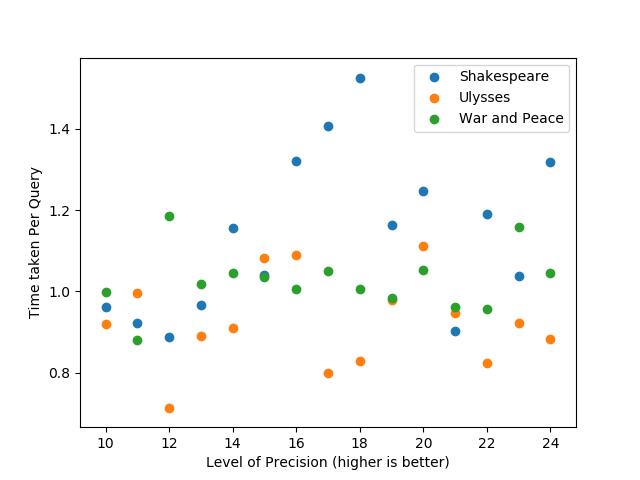
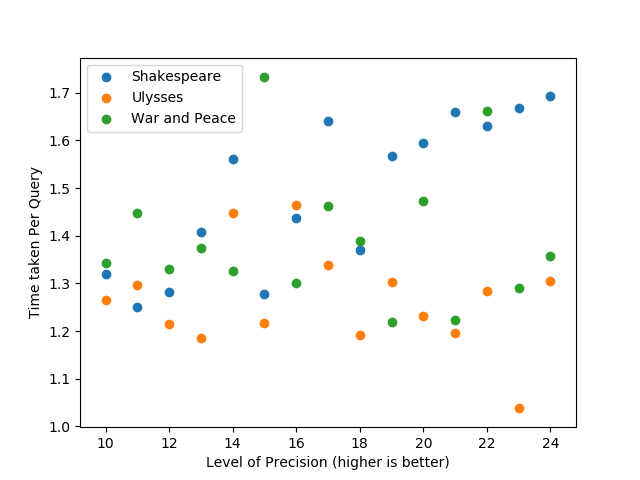
changed timing to include connection to the server

diff --git a/bigquery/bigquery-queries-detailed.py b/bigquery/bigquery-queries-detailed.py
@@ -9,145 +9,162 @@ from tqdm import trange
 verbose = False
 os.environ["GOOGLE_APPLICATION_CREDENTIALS"] = "/Users/Surya/Surya/School/CS166/Project/key_files/surya-bigquery-project-editable-key.json"
 
-client = bigquery.Client()
-
-print('############################## WAR AND PEACE #################################')
-# Exact Count.
-
+#Housekeeping Data Structures
 pct_diff_war_and_peace = []
 hll_estimate_war_and_peace = []
 time_war_and_peace = []
-
-QUERY = (
-    'SELECT COUNT(DISTINCT string_field_0) as exact_count  \
-        FROM cs166.war_and_peace \
-        WHERE RAND() < 2  ')
-
-start = time.perf_counter()
-query_job = client.query(QUERY)  # API request
-rows = query_job.result()  # Waits for query to finish
-time_taken = time.perf_counter() - start
-print("Time taken to compute exact count for War and Peace", time_taken)
-
-for row in rows:
-    print("exact count", row.get('exact_count'))
-    exact_count = row.get('exact_count')
-
-# Approximate Count.
-
-for precision in trange(10, 25):
-    i = precision
-
-    QUERY = (
-        'SELECT HLL_COUNT.EXTRACT(HLL_COUNT.INIT(string_field_0, %d))\
-            as approx_count FROM cs166.war_and_peace WHERE RAND() < 2  ' % i) 
-    
-    start = time.perf_counter()
-    query_job = client.query(QUERY)  # API request
-    rows = query_job.result()  # Waits for query to finish
-    time_taken = time.perf_counter() - start
-
-    for row in rows:
-        
-        pct_diff = round((((row.get('approx_count')) - exact_count) / exact_count) * 100, 2)
-        pct_diff_war_and_peace.append(pct_diff)
-        time_war_and_peace.append(time_taken)
-        hll_estimate_war_and_peace.append(row.get('approx_count'))
-        if verbose:
-            print("approx count with precision level, %d" % i, row.get('approx_count'))
-            print("%% difference with precision level, %d" % i, pct_diff)
-            print("Time taken for this query", time_taken)
-        
-        
-
-print('############################## SHAKESPEARE #################################')
 
 pct_diff_shakespeare = []
 hll_estimate_shakespeare = []
 time_shakespeare = []
 
+
+pct_diff_ulysses = []
+hll_estimate_ulysses = []
+time_ulysses = []
+
+
+EXACT_QUERY_TEMPLATE = 'SELECT COUNT(DISTINCT string_field_0) as exact_count  \
+        FROM cs166.%s \
+        WHERE RAND() < 2 '
+
+print('############################## WAR AND PEACE #################################')
+
 # Exact Count.
-QUERY = (
-    'SELECT COUNT(DISTINCT string_field_0) as exact_count  \
-        FROM cs166.shakespeare WHERE RAND() < 2  ')
+
 start = time.perf_counter()
+client = bigquery.Client()
+QUERY = (EXACT_QUERY_TEMPLATE % 'war_and_peace')
 query_job = client.query(QUERY)  # API request
 rows = query_job.result()  # Waits for query to finish
-time_taken = time.perf_counter() - start
-print("Time taken to compute exact count for Shakespeare", time_taken)
 
 for row in rows:
     print("exact count", row.get('exact_count'))
     exact_count = row.get('exact_count')
 
+time_taken = time.perf_counter() - start
+print("Time taken to compute exact count for War and Peace", time_taken)
+
+
 # Approximate Count.
 
 for precision in trange(10, 25):
+    start = time.perf_counter()
+    i = precision
+    QUERY = (
+        'SELECT HLL_COUNT.EXTRACT(HLL_COUNT.INIT(string_field_0, %d))\
+            as approx_count FROM cs166.war_and_peace WHERE RAND() < 2  ' % i) 
+    client = bigquery.Client()
+    query_job = client.query(QUERY)  # API request
+    rows = query_job.result()  # Waits for query to finish
+
+    for row in rows:
+        
+        pct_diff = round((((row.get('approx_count')) - exact_count) / exact_count) * 100, 2)
+        pct_diff_war_and_peace.append(pct_diff)        
+        hll_estimate_war_and_peace.append(row.get('approx_count'))        
+        if verbose:
+            print("approx count with precision level, %d" % i, row.get('approx_count'))
+            print("%% difference with precision level, %d" % i, pct_diff)
+        
+        time_taken = time.perf_counter() - start
+        time_war_and_peace.append(time_taken)
+        
+        if verbose:
+            print("Time taken for this query", time_taken)
+        
+        
+print('############################## SHAKESPEARE #################################')
+
+
+# Exact Count.
+start = time.perf_counter()
+client = bigquery.Client()
+QUERY = (EXACT_QUERY_TEMPLATE % 'shakespeare')        
+query_job = client.query(QUERY)  # API request
+rows = query_job.result()  # Waits for query to finish
+
+for row in rows:
+    print("exact count", row.get('exact_count'))
+    exact_count = row.get('exact_count')
+
+time_taken = time.perf_counter() - start
+print("Time taken to compute exact count for Shakespeare", time_taken)
+
+# Approximate Count.
+
+for precision in trange(10, 25):
+    
+    start = time.perf_counter()
+
     i = precision
     
     QUERY = (
         'SELECT HLL_COUNT.EXTRACT(HLL_COUNT.INIT(string_field_0, %d))\
             as approx_count FROM cs166.shakespeare WHERE RAND() < 2  ' % i) 
     
-    start = time.perf_counter()
+    client = bigquery.Client()
     query_job = client.query(QUERY)  # API request
     rows = query_job.result()  # Waits for query to finish
-    time_taken = time.perf_counter() - start
-
+    
     for row in rows:
         
         pct_diff = round(((row.get('approx_count') - exact_count) / exact_count) * 100, 2)
-        pct_diff_shakespeare.append(pct_diff)        
-        time_shakespeare.append(time_taken)
+        pct_diff_shakespeare.append(pct_diff)                
         hll_estimate_shakespeare.append(row.get('approx_count'))      
+
         if verbose:  
             print("approx count with precision level, %d" % i, row.get('approx_count'))
             print("%% difference with precision level, %d" % i, pct_diff)
+
+        time_taken = time.perf_counter() - start
+        time_shakespeare.append(time_taken)
+        if verbose:
             print("Time taken for this query", time_taken)    
 
 print('############################## ULYSSES #################################')
 
-pct_diff_ulysses = []
-hll_estimate_ulysses = []
-time_ulysses = []
-
 # Exact Count.
-QUERY = (
-    'SELECT COUNT(DISTINCT string_field_0) as exact_count  \
-        FROM cs166.ulysses WHERE RAND() < 2  ')
-
 start = time.perf_counter()
+
+QUERY = (EXACT_QUERY_TEMPLATE % 'ulysses')        
+client = bigquery.Client()
 query_job = client.query(QUERY)  # API request
 rows = query_job.result()  # Waits for query to finish
-time_taken = time.perf_counter() - start
-print("Time taken to compute exact count for Ulysses", time_taken)
 
 for row in rows:
     print("exact count", row.get('exact_count'))
     exact_count = row.get('exact_count')
 
+time_taken = time.perf_counter() - start
+print("Time taken to compute exact count for Ulysses", time_taken)
+
 # Approximate Count.
 
 for precision in trange(10, 25):
+    start = time.perf_counter()
+
     i = precision
 
     QUERY = (
         'SELECT HLL_COUNT.EXTRACT(HLL_COUNT.INIT(string_field_0, %d))\
             as approx_count FROM cs166.ulysses WHERE RAND() < 2  ' % i) 
 
-    start = time.perf_counter()
+    client = bigquery.Client()
     query_job = client.query(QUERY)  # API request
     rows = query_job.result()  # Waits for query to finish
-    time_taken = time.perf_counter() - start
-
+    
     for row in rows:        
         pct_diff = round((((row.get('approx_count')) - exact_count) / exact_count) * 100, 2)
-        pct_diff_ulysses.append(pct_diff)        
-        time_ulysses.append(time_taken)
+        pct_diff_ulysses.append(pct_diff)                
         hll_estimate_ulysses.append(row.get('approx_count'))
         if verbose:
             print("approx count with precision level, %d" % i, row.get('approx_count'))
             print("%% difference with precision level, %d" % i, pct_diff)
+        
+        time_taken = time.perf_counter() - start
+        time_ulysses.append(time_taken)
+        if verbose:
             print("Time taken for this query", time_taken)    
 
 ################################# PLOTTING ###############################
